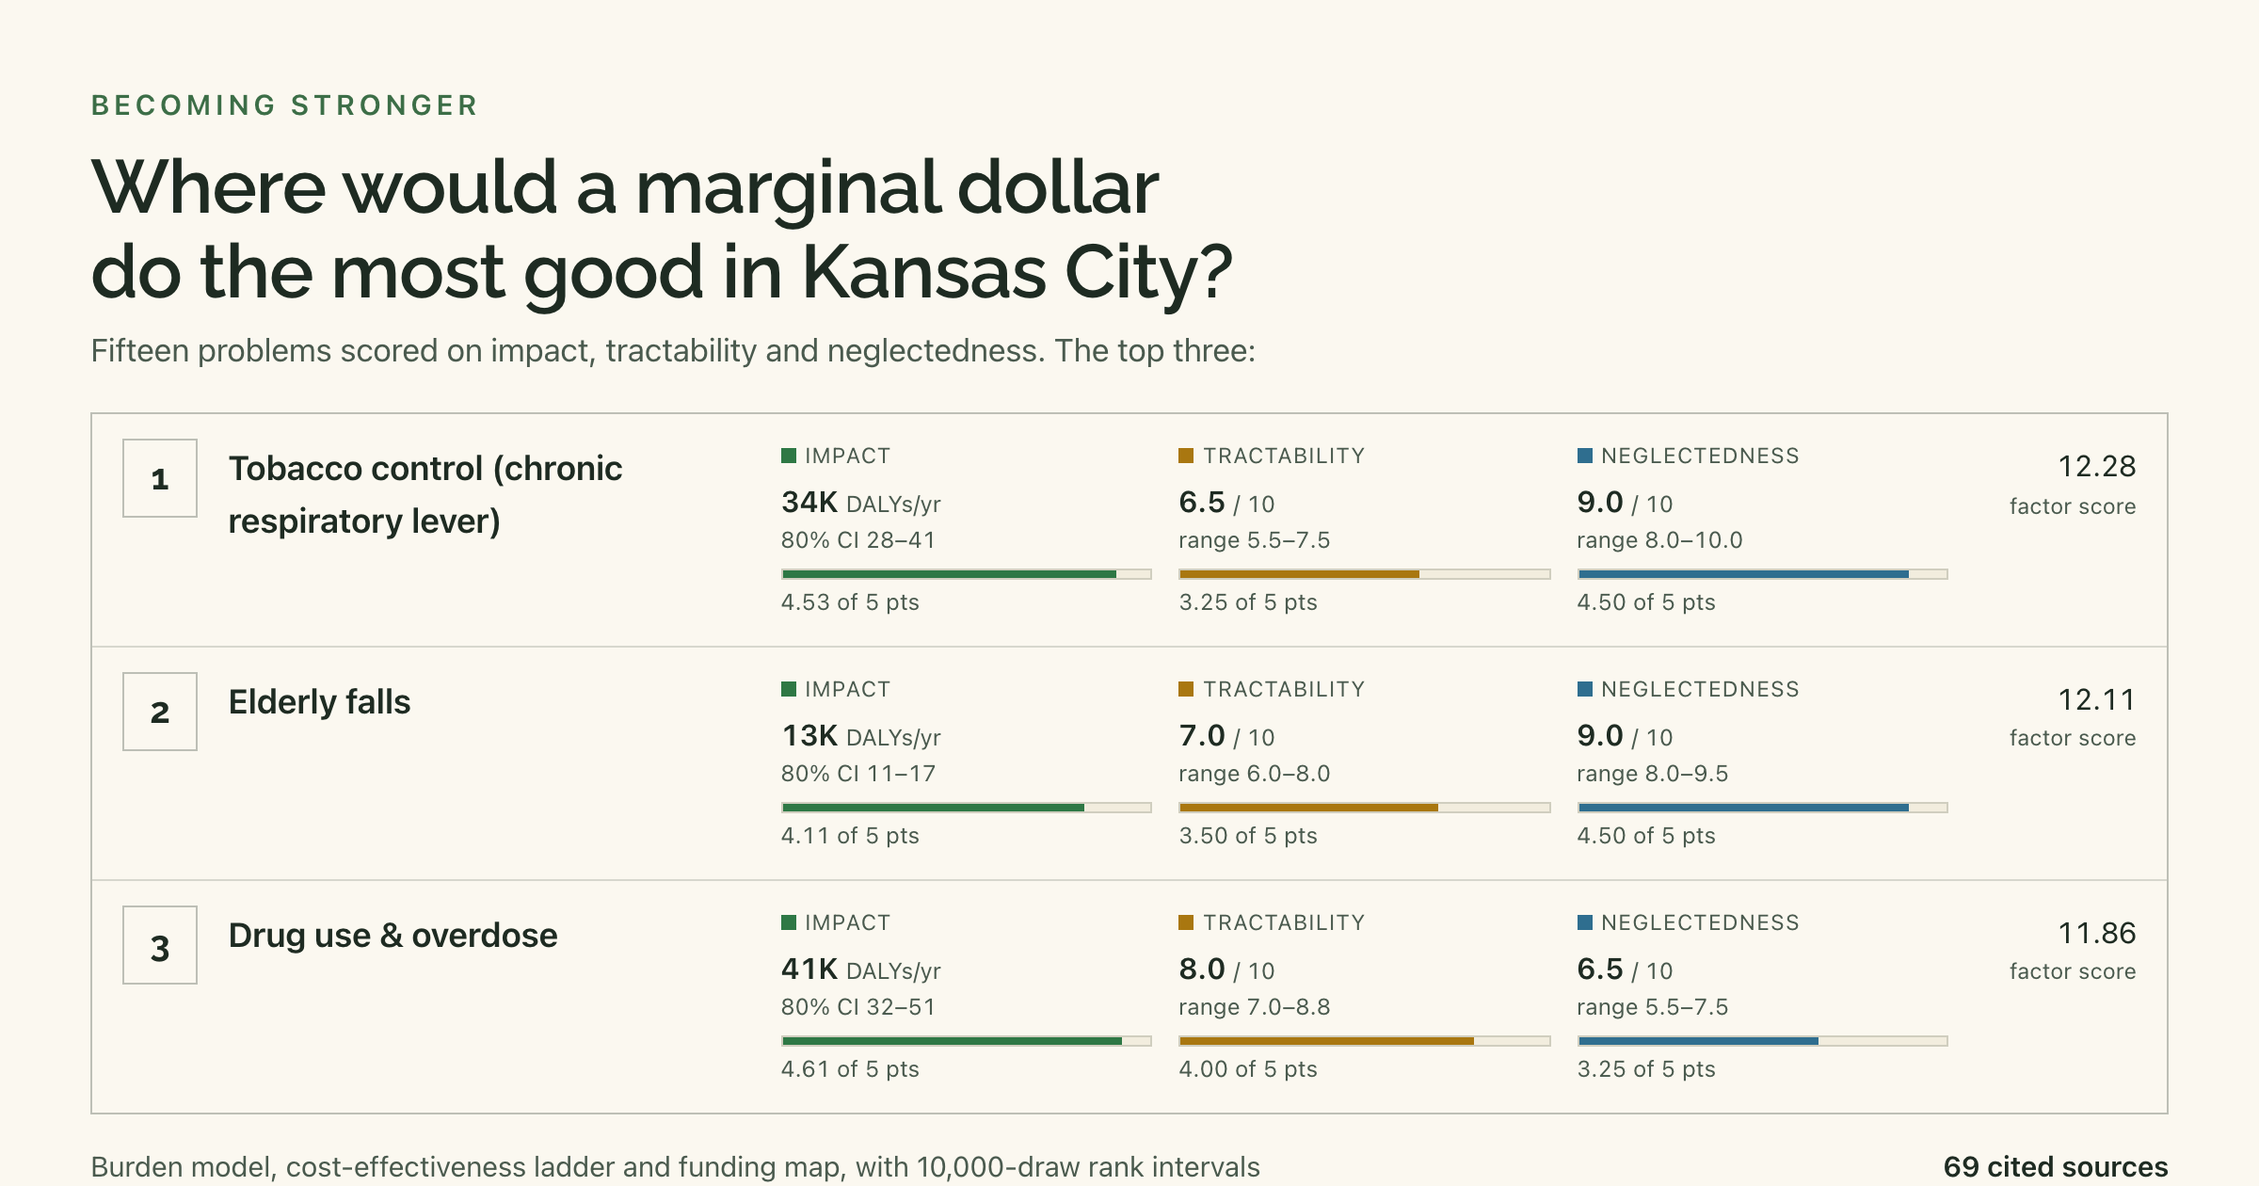
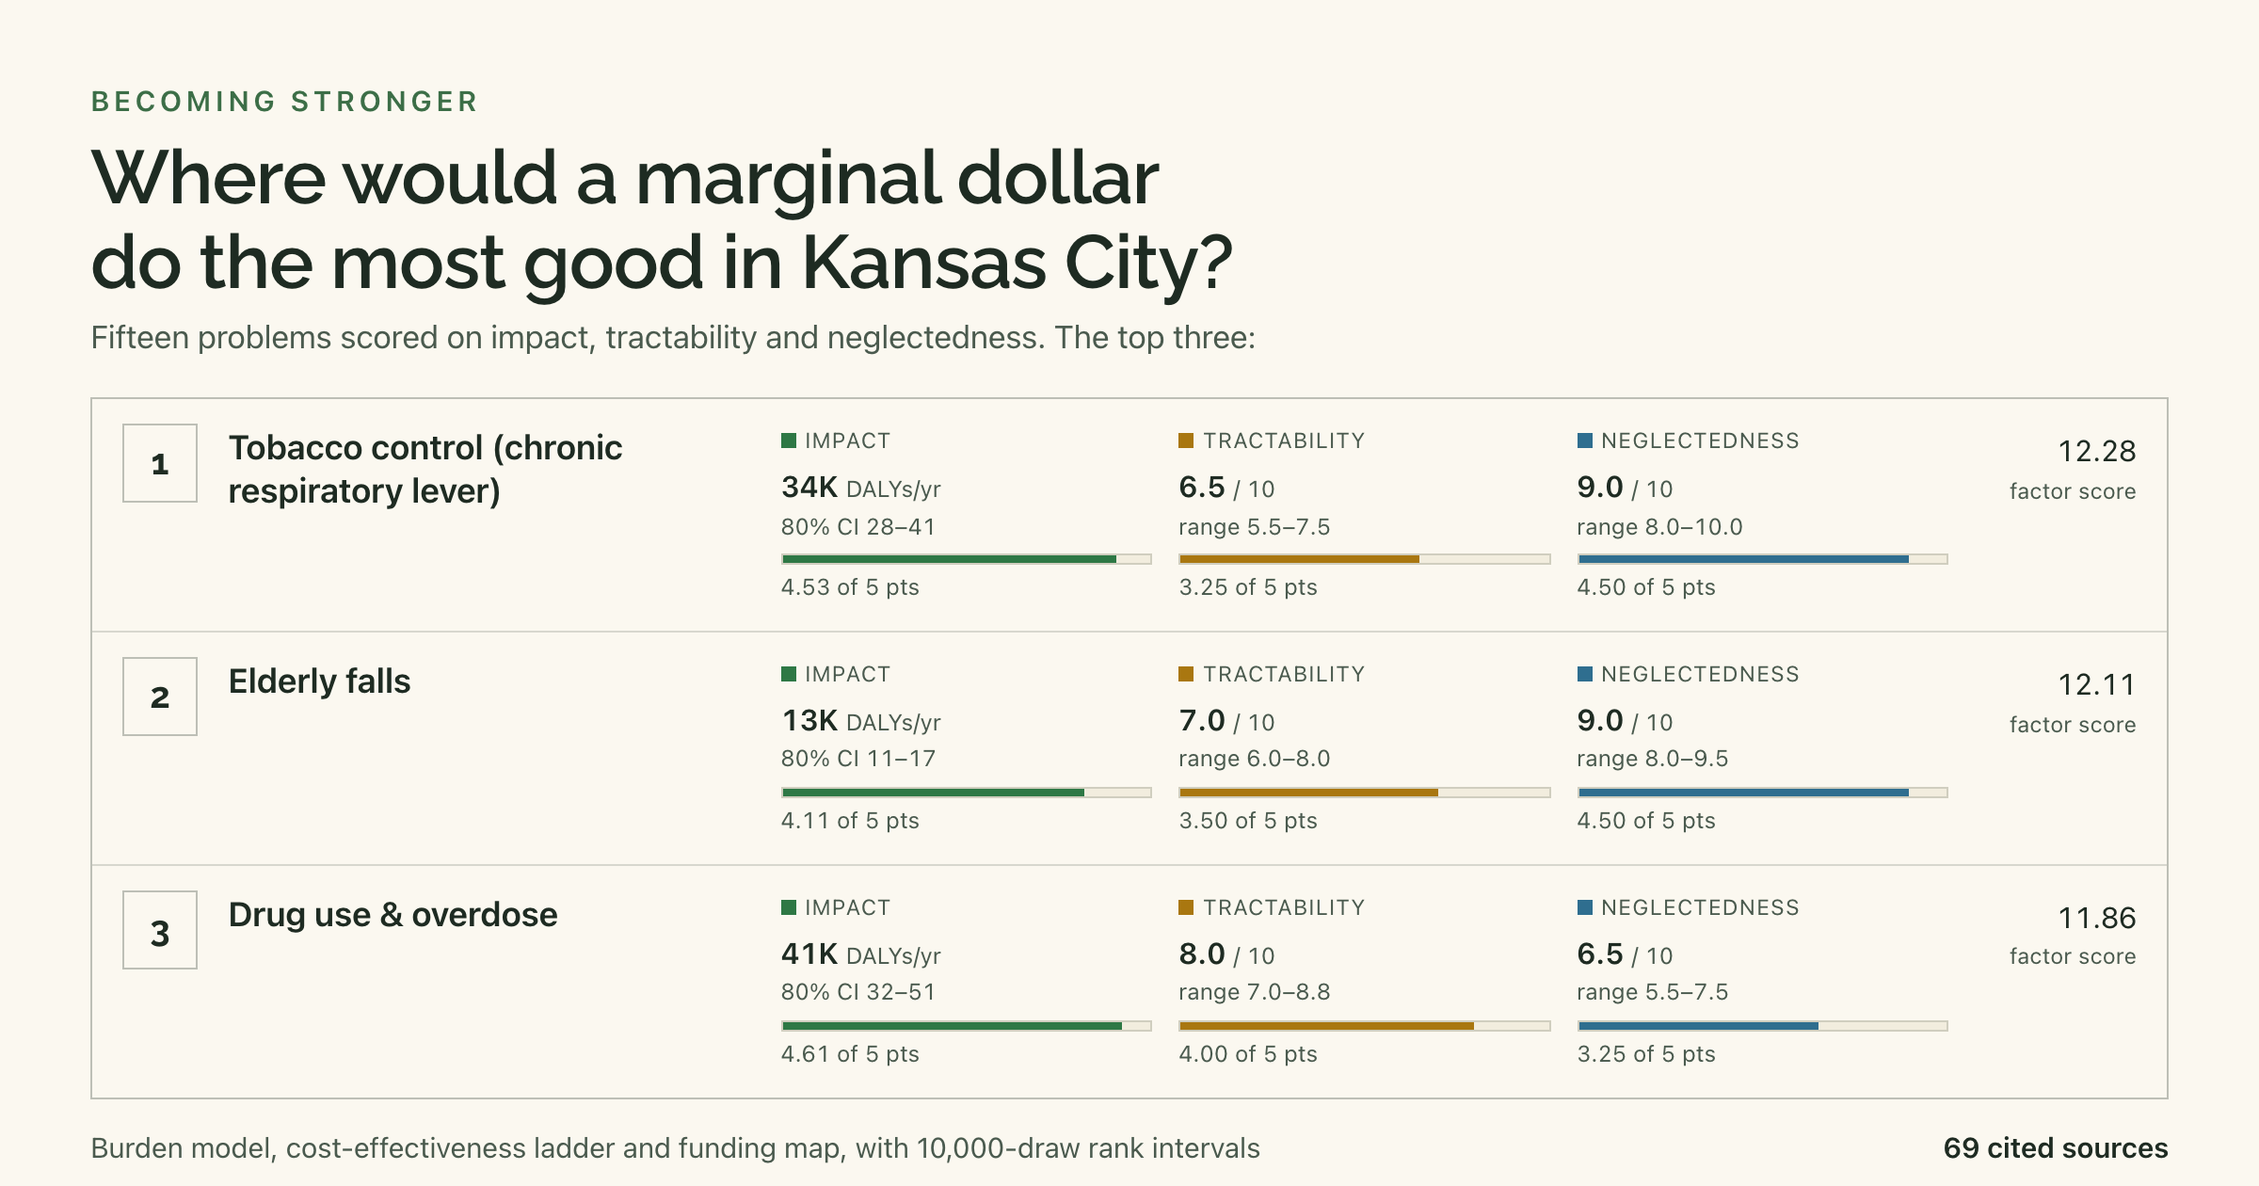
Make the card generator driveable so the EA KC port can share it
Every string, the row count, the title font and the mount point are now
arguments with defaults, rather than baked into the script. The
eakansascity.org port runs the same script against its own page: it
mounts inside .cp, where the artifact's CSS variables live, and swaps
Raleway for the site's Montserrat.

Also hardens the build step. Text now goes in through textContent rather
than an innerHTML template, the mount point and row count are checked
before rendering, and a short row list fails loudly instead of quietly
producing a card with two entries.

diff --git a/dating/index.html b/dating/index.html
@@ -1,0 +1,41 @@
+<!DOCTYPE html>
+<html lang="en">
+<head>
+<meta charset="utf-8">
+<meta name="viewport" content="width=device-width, initial-scale=1">
+<title>Dating Document · Becoming Stronger</title>
+<meta name="description" content="Not your typical dating profile. Kansas City, 32, philosophy nerd, effective altruism organizer, and one very well-behaved cat.">
+<link rel="canonical" href="https://becomingstronger.github.io/dating/">
+<meta property="og:type" content="profile">
+<meta property="og:url" content="https://becomingstronger.github.io/dating/">
+<meta property="og:title" content="Dating Document · Becoming Stronger">
+<meta property="og:description" content="Not your typical dating profile. Kansas City, 32, philosophy nerd, effective altruism organizer, and one very well-behaved cat.">
+<meta property="og:image" content="https://becomingstronger.github.io/og-card-dating.jpg">
+<meta property="og:image:width" content="2400">
+<meta property="og:image:height" content="1260">
+<meta property="og:image:alt" content="A collage: Alex giving a talk on effective altruism, his black cat Loki sitting in a cardboard box, and his Big Five personality chart.">
+<meta name="twitter:card" content="summary_large_image">
+<meta name="twitter:title" content="Dating Document · Becoming Stronger">
+<meta name="twitter:description" content="Not your typical dating profile. Kansas City, 32, philosophy nerd, effective altruism organizer, and one very well-behaved cat.">
+<meta name="twitter:image" content="https://becomingstronger.github.io/og-card-dating.jpg">
+<meta name="theme-color" content="#fcfdf7">
+<link rel="icon" type="image/svg+xml" href="/favicon.svg">
+<link rel="icon" type="image/png" sizes="32x32" href="/favicon-32.png">
+<link rel="apple-touch-icon" href="/apple-touch-icon.png">
+<!-- The document itself is a tab on the single-page site. This file exists so
+     the link has a real URL to hang a preview card on: crawlers read the tags
+     above and stop, browsers run the redirect and land on the tab. No meta
+     refresh, deliberately -- a crawler that follows it would read the site
+     card instead of this one. -->
+<script>location.replace('/#dating');</script>
+<style>
+body{margin:0;padding:15vh 24px;background:#fcfdf7;color:#191c19;text-align:center;
+  font-family:-apple-system,BlinkMacSystemFont,"SF Pro Text",system-ui,sans-serif;line-height:1.6}
+a{color:#0e6d35;font-weight:600}
+</style>
+</head>
+<body>
+<p>The dating document lives on the main site.</p>
+<p><a href="/#dating">Open it</a></p>
+</body>
+</html>

diff --git a/index.html b/index.html
@@ -317,7 +317,7 @@ footer a{color:var(--md-sys-color-primary);cursor:pointer}
       <a data-tab="portfolio">Portfolio</a>
       <a data-tab="calendar">Book a meeting</a>
       <a data-tab="events">Events</a>
-      <a data-tab="dating">Dating Document</a>
+      <a data-tab="dating" href="/dating/">Dating Document</a>
     </nav>
     <div class="nav-right">
       <button class="theme-toggle" id="theme-toggle" aria-label="Toggle dark mode">
@@ -548,11 +548,23 @@ footer a{color:var(--md-sys-color-primary);cursor:pointer}
 var PAGES=['home','about','blog','portfolio','calendar','events','dating'];
 var titles={home:'Becoming Stronger',about:'About · Becoming Stronger',calendar:'Book a meeting · Becoming Stronger',events:'Events · Becoming Stronger',portfolio:'Portfolio · Becoming Stronger',
   blog:'Blog · Becoming Stronger',dating:'Dating Document · Becoming Stronger'};
+/* The dating document is the one tab with a real URL of its own (dating/,
+   which carries its own link-preview card). Keep the address bar on that URL
+   while the tab is up, so what Alex copies is what previews. */
+var ROOT=location.pathname.replace(/(?:dating\/)?(?:index\.html)?$/,'');
+function syncUrl(id){
+  if(!history.replaceState)return;
+  var want=(id==='dating')?ROOT+'dating/'+location.search
+          :ROOT+location.search+(id==='home'?'':'#'+id);
+  if(location.pathname+location.search+location.hash!==want)
+    history.replaceState(null,'',want);
+}
 function showTab(id){
   if(PAGES.indexOf(id)<0)id='home';
   document.querySelectorAll('.page').forEach(function(p){p.classList.toggle('active',p.id===id)});
   document.querySelectorAll('.nav-links a').forEach(function(a){a.classList.toggle('active',a.dataset.tab===id)});
   document.title=titles[id]||titles.home;
+  syncUrl(id);
   window.scrollTo(0,0);
   gcSend(id);
 }

diff --git a/tools/make-og-card.py b/tools/make-og-card.py
@@ -1,34 +1,48 @@
 #!/usr/bin/env python3
 """Render the link-preview card for the cause prioritization page.
 
-The card is the top three rows of the per-problem breakdown, cloned from the
-live page so it cannot drift from the ranking. Re-run after any score change:
+The card is the top rows of the per-problem breakdown, cloned out of the live
+page so it can never disagree with the published ranking. Re-run after any
+score change:
 
     python3 tools/make-og-card.py
 
-Writes og-card-evidence.png (1200x630) next to the page.
+Every string and the mount point are overridable, so the same script drives the
+eakansascity.org port, which mounts inside its .cp scope and uses Montserrat.
 """
-import pathlib, sys
+import argparse, pathlib, sys
 from playwright.sync_api import sync_playwright
 
 ROOT = pathlib.Path(__file__).resolve().parent.parent
-PAGE = ROOT / "kc-cause-prioritization.html"
-OUT  = ROOT / "og-card-evidence.png"
+
+DEFAULTS = dict(
+    page="kc-cause-prioritization.html",
+    out="og-card-evidence.png",
+    mount="body",
+    eyebrow="Becoming Stronger",
+    title="Where would a marginal dollar do the most good in Kansas City?",
+    dek="Fifteen problems scored on impact, tractability and neglectedness. The top three:",
+    foot_left="Burden model, cost-effectiveness ladder and funding map, with 10,000-draw rank intervals",
+    foot_right="69 cited sources",
+    title_font='"Raleway",sans-serif',
+    rows=3,
+)
 
 CARD_CSS = """
 #ogcard{position:fixed;left:0;top:0;width:1200px;height:630px;z-index:9999;
   background:var(--paper);padding:44px 48px;box-sizing:border-box;
-  display:flex;flex-direction:column;gap:0}
+  display:flex;flex-direction:column;gap:0;text-align:left}
 #ogcard .eb{font-size:15px;font-weight:600;letter-spacing:.16em;text-transform:uppercase;
-  color:var(--leaf);margin:0 0 10px}
-#ogcard h1{font-family:"Raleway",sans-serif;font-weight:600;font-size:40px;line-height:1.12;
-  letter-spacing:-.015em;margin:0 0 6px;color:var(--ink);text-wrap:balance;max-width:1010px}
-#ogcard .dek{font-size:17px;color:var(--ink-soft);margin:0 0 20px}
+  color:var(--leaf);margin:0 0 10px;line-height:1.2}
+#ogcard h1{font-family:%(title_font)s;font-weight:600;font-size:40px;line-height:1.12;
+  letter-spacing:-.015em;margin:0 0 6px;color:var(--ink);text-wrap:balance;max-width:1010px;
+  padding:0;border:none;text-transform:none}
+#ogcard .dek{font-size:17px;color:var(--ink-soft);margin:0 0 20px;line-height:1.4}
 #ogcard .explorer{border:1px solid var(--line-strong)}
 #ogcard .xrow{padding:13px 16px}
 #ogcard .xtop{grid-template-columns:40px minmax(150px,.85fr) minmax(520px,1.9fr) 84px;gap:16px}
 #ogcard .xrank{font-size:1.2rem;padding:5px 0}
-#ogcard .xnm{font-size:1.13rem;font-weight:600}
+#ogcard .xnm{font-size:1.13rem;font-weight:600;line-height:1.25}
 #ogcard .fl{font-size:.72rem}
 #ogcard .fv{font-size:.98rem}
 #ogcard .fq{font-size:.76rem}
@@ -37,52 +51,74 @@ CARD_CSS = """
 #ogcard .xscore{font-size:.98rem}
 #ogcard .xscore small{font-size:.74rem}
 #ogcard .foot{margin-top:auto;display:flex;justify-content:space-between;align-items:baseline;
-  font-size:15px;color:var(--ink-soft);padding-top:16px}
+  font-size:15px;color:var(--ink-soft);padding-top:16px;line-height:1.3;gap:24px}
 #ogcard .foot b{color:var(--ink);font-weight:600}
 """
 
-BUILD = """(rows) => {
+BUILD = """(o) => {
   document.querySelectorAll('#ogcard').forEach(n => n.remove());
+  const mount = document.querySelector(o.mount);
+  if (!mount) return {error: 'mount not found: ' + o.mount};
+  const src = [...document.querySelectorAll('#xp .xrow')];
+  if (src.length < o.rows) return {error: 'only ' + src.length + ' rows rendered'};
   const card = document.createElement('div');
   card.id = 'ogcard';
+  card.innerHTML = '<p class="eb"></p><h1></h1><p class="dek"></p>';
+  card.querySelector('.eb').textContent = o.eyebrow;
+  card.querySelector('h1').textContent = o.title;
+  card.querySelector('.dek').textContent = o.dek;
   const list = document.createElement('div');
   list.className = 'explorer';
-  [...document.querySelectorAll('#xp .xrow')].slice(0, rows).forEach(r => {
+  src.slice(0, o.rows).forEach(r => {
     const c = r.cloneNode(true);
     c.querySelectorAll('.xcap, .xnm button').forEach(n => n.remove());
     list.appendChild(c);
   });
-  card.innerHTML =
-    '<p class="eb">Becoming Stronger</p>' +
-    '<h1>Where would a marginal dollar do the most good in Kansas City?</h1>' +
-    '<p class="dek">Fifteen problems scored on impact, tractability and neglectedness. The top three:</p>';
   card.appendChild(list);
   const foot = document.createElement('div');
   foot.className = 'foot';
-  foot.innerHTML = '<span>Burden model, cost-effectiveness ladder and funding map, with 10,000-draw rank intervals</span>' +
-                   '<span><b>69 cited sources</b></span>';
+  const l = document.createElement('span'); l.textContent = o.footLeft;
+  const r = document.createElement('span'); const b = document.createElement('b');
+  b.textContent = o.footRight; r.appendChild(b);
+  foot.append(l, r);
   card.appendChild(foot);
-  document.body.appendChild(card);
-  return true;
+  mount.appendChild(card);
+  return {names: [...card.querySelectorAll('.xrow .xnm')].map(e => e.textContent.trim())};
 }"""
 
+
 def main():
+    ap = argparse.ArgumentParser(description=__doc__,
+                                 formatter_class=argparse.RawDescriptionHelpFormatter)
+    for k, v in DEFAULTS.items():
+        ap.add_argument("--" + k.replace("_", "-"), default=v,
+                        type=int if isinstance(v, int) else str)
+    a = ap.parse_args()
+
+    page = (ROOT / a.page).resolve()
+    out = (ROOT / a.out).resolve()
+    if not page.exists():
+        sys.exit("no such page: %s" % page)
+
     with sync_playwright() as p:
         b = p.chromium.launch()
         pg = b.new_page(viewport={"width": 1200, "height": 630},
                         device_scale_factor=2, reduced_motion="reduce")
-        pg.goto(PAGE.as_uri(), wait_until="networkidle")
-        pg.add_style_tag(content=CARD_CSS)
-        pg.evaluate(BUILD, 3)
-        names = pg.eval_on_selector_all(
-            "#ogcard .xrow .xnm", "els => els.map(e => e.textContent.trim())")
-        pg.locator("#ogcard").screenshot(path=str(OUT))
+        pg.goto(page.as_uri(), wait_until="networkidle")
+        pg.add_style_tag(content=CARD_CSS % {"title_font": a.title_font})
+        res = pg.evaluate(BUILD, dict(mount=a.mount, rows=a.rows, eyebrow=a.eyebrow,
+                                      title=a.title, dek=a.dek,
+                                      footLeft=a.foot_left, footRight=a.foot_right))
+        if res.get("error"):
+            b.close()
+            sys.exit("card build failed: " + res["error"])
+        pg.locator("#ogcard").screenshot(path=str(out))
         b.close()
-    print("wrote %s" % OUT.name)
-    for i, n in enumerate(names, 1):
+
+    print("wrote %s (%d KB)" % (out.name, out.stat().st_size // 1024))
+    for i, n in enumerate(res["names"], 1):
         print("  %d. %s" % (i, n))
-    if len(names) != 3:
-        sys.exit("expected 3 rows, got %d" % len(names))
+
 
 if __name__ == "__main__":
     main()

diff --git a/tools/make-og-dating.py b/tools/make-og-dating.py
@@ -1,0 +1,135 @@
+#!/usr/bin/env python3
+"""Render the link-preview card for the dating document.
+
+A collage of three images pulled straight out of the document: the opening
+photo, Loki, and the Big Five chart. Re-run after swapping any of them:
+
+    python3 tools/make-og-dating.py
+
+Writes og-card-dating.jpg (1200x630 at 2x) next to the page. JPEG, not
+PNG: the card is mostly photographs, and a 2 MB preview image is one some
+scrapers give up on.
+"""
+import pathlib, sys
+from playwright.sync_api import sync_playwright
+
+ROOT = pathlib.Path(__file__).resolve().parent.parent
+IMG  = ROOT / "images" / "dating"
+OUT  = ROOT / "og-card-dating.jpg"
+
+# the three pieces of the collage, in document order
+LEAD  = IMG / "00.jpg"   # opening photo: giving the EA talk
+CAT   = IMG / "07.jpg"   # Loki
+BIG5  = IMG / "11.png"   # Big Five bar chart
+
+# 11.png carries whitespace and an export icon on the right; show only the
+# chart itself. Numbers are source pixels in a 1456x524 image.
+BIG5_W, BIG5_CROP_W, BIG5_CROP_H = 1456, 1410, 478
+
+HTML = """<!DOCTYPE html><html lang="en"><head><meta charset="utf-8">
+<link rel="preconnect" href="https://fonts.googleapis.com">
+<link rel="preconnect" href="https://fonts.gstatic.com" crossorigin>
+<link href="https://fonts.googleapis.com/css2?family=Raleway:wght@600&display=swap" rel="stylesheet">
+<style>
+:root{
+  --surface:#fcfdf7; --on-surface:#191c19; --on-surface-variant:#424940;
+  --outline-variant:#c1c9be; --gold:#705d00; --primary:#0e6d35;
+}
+*{box-sizing:border-box;margin:0}
+body{width:1200px;height:630px;overflow:hidden;background:var(--surface);
+  color:var(--on-surface);
+  font-family:-apple-system,BlinkMacSystemFont,"SF Pro Text",system-ui,sans-serif;
+  font-weight:400;line-height:1.6;-webkit-font-smoothing:antialiased}
+.card{display:flex;width:1200px;height:630px}
+
+/* two full-bleed photos down the left */
+.photos{display:flex;gap:2px;background:var(--surface);flex:0 0 620px}
+.photos img{height:630px;object-fit:cover;border:0}
+.photos .lead{width:330px;object-position:52%% 50%%}
+.photos .cat{width:288px;object-position:44%% 56%%}
+
+.side{flex:1;padding:40px;display:flex;flex-direction:column;
+  border-left:1px solid var(--outline-variant)}
+.eb{font-size:14px;font-weight:600;letter-spacing:.16em;text-transform:uppercase;
+  color:var(--gold);margin-bottom:10px}
+h1{font-family:"Raleway",sans-serif;font-weight:600;font-size:46px;line-height:1.08;
+  letter-spacing:-.015em;margin-bottom:14px}
+.dek{font-size:17px;color:var(--on-surface-variant);margin-bottom:20px}
+.facts{list-style:none;padding:0;font-size:16px;line-height:1.5}
+.facts li{padding-left:18px;position:relative;margin-bottom:7px}
+.facts li:before{content:"";position:absolute;left:0;top:10px;width:7px;height:7px;
+  background:var(--gold)}
+.rule{border-top:1px solid var(--outline-variant);margin:auto 0 22px}
+
+/* the Big Five chart, cropped to the plot area */
+.chart{width:%(cw)dpx;height:%(ch)dpx;overflow:hidden;
+  border:1px solid var(--outline-variant);background:#fff}
+.chart img{width:%(iw)dpx;height:auto;max-width:none}
+.scores{margin-top:12px;font-size:15px;color:var(--on-surface-variant);
+  display:flex;justify-content:space-between}
+.scores b{color:var(--on-surface);font-weight:600}
+.url{margin-top:18px;font-size:15px;font-weight:600;color:var(--primary)}
+</style></head><body>
+<div class="card">
+  <div class="photos">
+    <img class="lead" src="%(lead)s" alt="">
+    <img class="cat" src="%(cat)s" alt="">
+  </div>
+  <div class="side">
+    <p class="eb">Becoming Stronger</p>
+    <h1>Dating Document</h1>
+    <p class="dek">Not your typical dating profile. Kansas City, 32, philosophy
+      nerd, effective altruism organizer, and one very well-behaved cat.</p>
+    <ul class="facts">
+      <li>Organizes Effective Altruism KC, donates 10%% of his income</li>
+      <li>Vegan. D&amp;D, urban exploration, foraging, Burning Man</li>
+      <li>Looking for a life partner in the next 3-5 years</li>
+    </ul>
+    <div class="rule"></div>
+    <div class="chart"><img src="%(big5)s" alt=""></div>
+    <div class="scores">
+      <span>O&nbsp;<b>92</b></span><span>C&nbsp;<b>84</b></span>
+      <span>E&nbsp;<b>91</b></span><span>A&nbsp;<b>98</b></span>
+      <span>N&nbsp;<b>60</b></span>
+    </div>
+    <p class="url">becomingstronger.github.io/dating</p>
+  </div>
+</div>
+</body></html>"""
+
+
+def main():
+    for p in (LEAD, CAT, BIG5):
+        if not p.exists():
+            sys.exit("missing %s" % p)
+
+    chart_w = 500                                    # inner width of .side
+    img_w   = round(chart_w * BIG5_W / BIG5_CROP_W)  # scale up, then clip
+    chart_h = round(chart_w * BIG5_CROP_H / BIG5_CROP_W)
+
+    rel = lambda q: q.relative_to(ROOT).as_posix()
+    html = HTML % {"lead": rel(LEAD), "cat": rel(CAT), "big5": rel(BIG5),
+                   "cw": chart_w, "ch": chart_h, "iw": img_w}
+
+    # a file:// page so the <img> paths resolve; set_content would leave the
+    # document on about:blank, where they cannot load
+    tmp = ROOT / ".og-card-dating.tmp.html"
+    tmp.write_text(html)
+    try:
+        with sync_playwright() as p:
+            b = p.chromium.launch()
+            pg = b.new_page(viewport={"width": 1200, "height": 630},
+                            device_scale_factor=2, reduced_motion="reduce")
+            pg.goto(tmp.as_uri(), wait_until="networkidle")
+            n = pg.eval_on_selector_all("img", "els => els.filter(e => e.naturalWidth).length")
+            if n != 3:
+                sys.exit("only %d of 3 collage images loaded" % n)
+            pg.locator(".card").screenshot(path=str(OUT), type="jpeg", quality=90)
+            b.close()
+    finally:
+        tmp.unlink(missing_ok=True)
+    print("wrote %s (%d KB)" % (OUT.name, OUT.stat().st_size // 1024))
+
+
+if __name__ == "__main__":
+    main()
